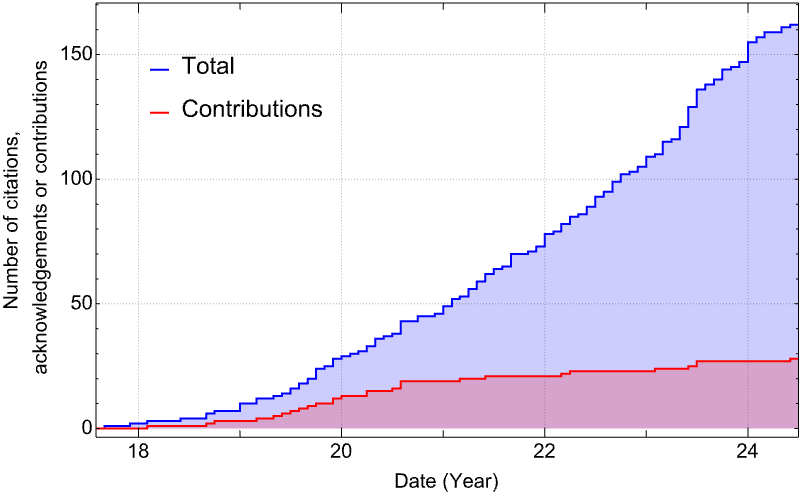
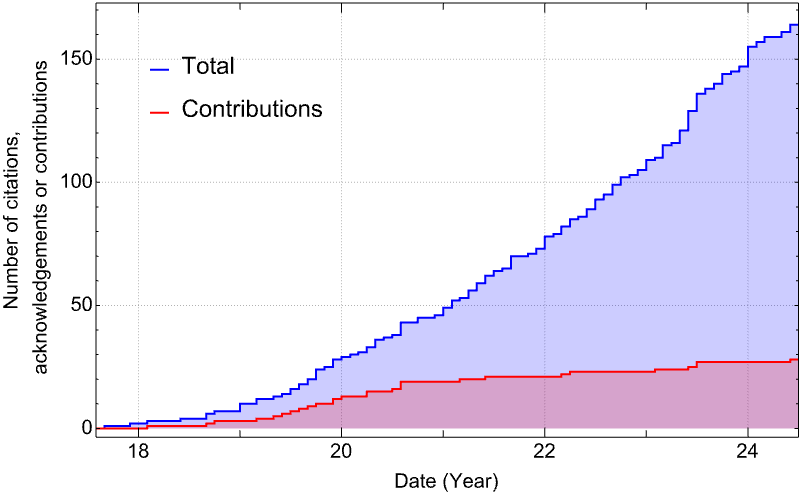
Add two papers that cite the BHPToolkit

diff --git a/users.md b/users.md
@@ -19,6 +19,10 @@ The graph below show the accumulated citations to the Toolkit over time. The blu
 
 Below is a list of research papers that have used or extended the Toolkit. Papers that have contributed code or data to the Toolkit have a (*) after them.
 
+164\. "Black hole scattering near the transition to plunge: Self-force and resummation of post-Minkowskian theory", Oliver Long, Christopher Whittall, Leor Barack, [arXiv:2406.08363](https://arxiv.org/abs/2406.08363)
+
+163\. "Probing fundamental physics with Extreme Mass Ratio Inspirals: a full Bayesian inference for scalar charge", Lorenzo Speri, Susanna Barsanti, Andrea Maselli, Thomas P. Sotiriou, Niels Warburton, Maarten van de Meent, Alvin J. K. Chua, Ollie Burke, Jonathan Gair, [arXiv:2406.07607](https://arxiv.org/abs/2406.07607)
+
 162\. "KerrGeoPy: A Python Package for Computing Timelike Geodesics in Kerr Spacetime", Seyong Park, Zachary Nasipak, [arXiv:2406.01413](https://arxiv.org/abs/2406.01413)
 
 161\. "Backreaction from quantum fluxes at the Kerr inner horizon", Tyler McMaken, [arXiv:2405.13221](https://arxiv.org/abs/2405.13221)
